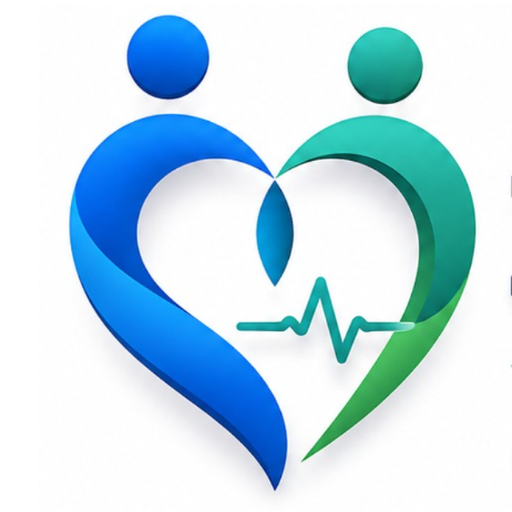
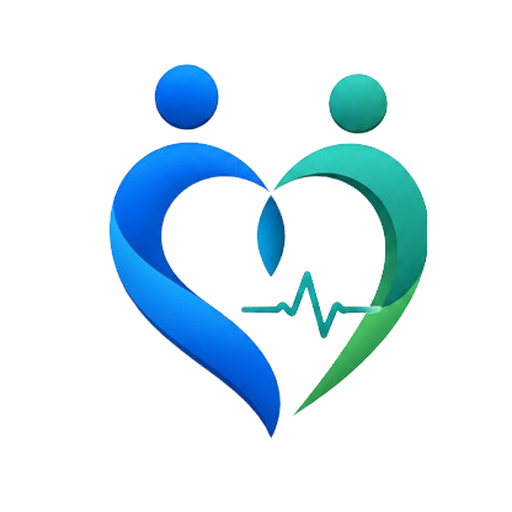
as

diff --git a/apps/web/src/features/patient/components/patient-dashboard-messages-section.tsx b/apps/web/src/features/patient/components/patient-dashboard-messages-section.tsx
@@ -127,25 +127,27 @@ export function PatientDashboardMessagesSection() {
     <Card
       className={cn(
         surfaceCard,
-        "flex h-full flex-col max-md:overflow-visible max-md:shadow-sm md:overflow-hidden md:shadow-premium border-slate-200 p-0",
+        "flex h-full w-full min-w-0 max-w-full flex-col overflow-x-hidden border-slate-200 p-0 shadow-sm md:overflow-hidden md:shadow-premium",
       )}
     >
-      <CardHeader className="shrink-0 space-y-3 border-b border-slate-200/80 bg-[#f0f2f5] px-4 py-4 sm:px-6">
-        <div className="flex flex-wrap items-center justify-between gap-3">
-          <div className="flex min-w-0 items-center gap-3">
-            <div className="flex size-10 shrink-0 items-center justify-center rounded-xl bg-brand-muted text-brand">
-              <MessageSquare className="size-5" aria-hidden />
+      <CardHeader className="shrink-0 space-y-3 border-b border-slate-200/80 bg-[#f0f2f5] px-3 py-3 sm:px-6 sm:py-4">
+        <div className="flex min-w-0 items-start justify-between gap-2 sm:gap-3">
+          <div className="flex min-w-0 flex-1 items-center gap-2.5 sm:gap-3">
+            <div className="flex size-9 shrink-0 items-center justify-center rounded-xl bg-brand-muted text-brand sm:size-10">
+              <MessageSquare className="size-4 sm:size-5" aria-hidden />
             </div>
             <div className="min-w-0">
-              <CardTitle className="text-base">{t.dashboard.nav.messages}</CardTitle>
-              <p className="mt-0.5 line-clamp-1 text-sm text-slate-500">{m.description}</p>
+              <CardTitle className="truncate text-base">{t.dashboard.nav.messages}</CardTitle>
+              <p className="mt-0.5 line-clamp-2 text-xs text-slate-500 sm:line-clamp-1 sm:text-sm">
+                {m.description}
+              </p>
             </div>
           </div>
-          <Button asChild variant="outline" size="sm" className="shrink-0">
+          <Button asChild variant="outline" size="sm" className="h-8 shrink-0 px-2.5 text-xs sm:h-9 sm:px-3 sm:text-sm">
             <Link href={siteConfig.links.messages}>{m.viewAll}</Link>
           </Button>
         </div>
-        <label className="relative block">
+        <label className="relative block min-w-0">
           <Search
             className="pointer-events-none absolute left-3 top-1/2 size-4 -translate-y-1/2 text-slate-400"
             aria-hidden
@@ -155,74 +157,74 @@ export function PatientDashboardMessagesSection() {
             onChange={(e) => setSearch(e.target.value)}
             placeholder={c.searchPlaceholder}
             className={cn(
-              "w-full rounded-xl border border-slate-200 bg-white py-2.5 pl-10 pr-3 text-sm",
+              "w-full min-w-0 rounded-xl border border-slate-200 bg-white py-2 pl-9 pr-3 text-sm",
               "outline-none focus:border-brand-light focus:ring-2 focus:ring-brand-muted",
             )}
           />
         </label>
       </CardHeader>
 
-      <CardContent className="min-h-0 flex-1 overflow-y-auto p-0">
+      <CardContent className="min-h-0 min-w-0 flex-1 overflow-x-hidden overflow-y-auto p-0">
         {loading ? (
           <LoadingScreen message={m.loading} size="md" />
         ) : contacts.length === 0 ? (
-          <div className="px-6 py-10 text-center">
+          <div className="px-4 py-10 text-center sm:px-6">
             <p className="font-medium text-slate-700">{c.emptyTitle}</p>
             <p className="mt-1 text-sm text-slate-500">{c.emptyDescription}</p>
           </div>
         ) : (
-          <ul>
+          <ul className="min-w-0">
             {contacts.map((contact) => {
               const hasUnread = contact.unreadCount > 0;
               return (
-              <li key={contact.id}>
+              <li key={contact.id} className="min-w-0">
                 <button
                   type="button"
                   onClick={() => handleSelect(contact)}
-                  className="flex w-full items-center gap-3 border-b border-slate-100 px-4 py-3 text-left transition-colors hover:bg-slate-50 sm:px-6"
+                  className="flex w-full min-w-0 max-w-full items-center gap-2.5 overflow-hidden border-b border-slate-100 px-3 py-2.5 text-left transition-colors hover:bg-slate-50 sm:gap-3 sm:px-6 sm:py-3"
                 >
                   <ChatAvatar
                     name={contact.name}
                     avatarUrl={contact.avatarUrl}
                     isDoctor
+                    size="sm"
+                    className="sm:h-12 sm:w-12"
                   />
-                  <div className="min-w-0 flex-1">
-                    <div className="flex items-center justify-between gap-2">
+                  <div className="min-w-0 flex-1 overflow-hidden">
+                    <div className="grid grid-cols-[minmax(0,1fr)_auto] items-center gap-x-2">
                       <p
                         className={cn(
-                          "truncate text-slate-900",
+                          "truncate text-sm text-slate-900 sm:text-base",
                           hasUnread ? "font-bold" : "font-semibold",
                         )}
                       >
                         {contact.name}
                       </p>
-                      <div className="flex shrink-0 items-center gap-1.5">
-                        {contact.lastMessageAt && (
-                          <span
-                            className={cn(
-                              "text-xs",
-                              hasUnread ? "font-semibold text-brand" : "text-slate-500",
-                            )}
-                          >
-                            {formatPreviewTime(contact.lastMessageAt)}
-                          </span>
-                        )}
-                        {hasUnread && (
-                          <span className="flex h-5 min-w-5 items-center justify-center rounded-full bg-brand px-1.5 text-[11px] font-bold leading-none text-white">
-                            {contact.unreadCount > 99 ? "99+" : contact.unreadCount}
-                          </span>
-                        )}
-                      </div>
+                      {contact.lastMessageAt ? (
+                        <span
+                          className={cn(
+                            "shrink-0 text-[11px] whitespace-nowrap sm:text-xs",
+                            hasUnread ? "font-semibold text-brand" : "text-slate-500",
+                          )}
+                        >
+                          {formatPreviewTime(contact.lastMessageAt)}
+                        </span>
+                      ) : null}
                     </div>
-                    <div className="mt-0.5 flex items-center justify-between gap-2">
+                    <div className="mt-0.5 flex min-w-0 items-center gap-2">
                       <p
                         className={cn(
-                          "truncate text-sm",
+                          "min-w-0 flex-1 truncate text-xs sm:text-sm",
                           hasUnread ? "font-medium text-slate-800" : "text-slate-500",
                         )}
                       >
                         {contact.lastMessagePreview || contact.subtitle || m.tapToChat}
                       </p>
+                      {hasUnread ? (
+                        <span className="flex h-5 min-w-5 shrink-0 items-center justify-center rounded-full bg-brand px-1.5 text-[10px] font-bold leading-none text-white sm:text-[11px]">
+                          {contact.unreadCount > 99 ? "99+" : contact.unreadCount}
+                        </span>
+                      ) : null}
                     </div>
                   </div>
                 </button>

diff --git a/apps/web/src/app/(patient)/dashboard/page.tsx b/apps/web/src/app/(patient)/dashboard/page.tsx
@@ -65,7 +65,7 @@ export default async function PatientDashboardPage() {
         description={formatMessage(t.dashboard.welcomeMessage, { name: displayName })}
       />
 
-      <section className="mt-8 space-y-8">
+      <section className="mt-8 min-w-0 space-y-8">
         <div>
           <h2 className="font-display text-lg font-semibold text-slate-900">
             {t.dashboard.activitiesTitle}
@@ -73,12 +73,15 @@ export default async function PatientDashboardPage() {
           <p className="mt-1 text-sm text-slate-500">{t.dashboard.activitiesDescription}</p>
         </div>
 
-        <div className="grid gap-4 lg:grid-cols-2 lg:items-stretch">
-          <PatientDashboardMessagesSection />
+        <div className="grid min-w-0 gap-4 lg:grid-cols-2 lg:items-stretch">
+          <div className="min-w-0">
+            <PatientDashboardMessagesSection />
+          </div>
+          <div className="min-w-0">
           {onlineBooking ? (
             <PatientOnlineBookingSection initialBooking={onlineBooking} />
           ) : (
-            <Card className={cn(surfaceCardInteractive, "flex h-full flex-col")}>
+            <Card className={cn(surfaceCardInteractive, "flex h-full min-w-0 flex-col")}>
               <CardHeader>
                 <CardTitle className="text-base">{t.dashboard.upcomingAppointments}</CardTitle>
               </CardHeader>
@@ -87,6 +90,7 @@ export default async function PatientDashboardPage() {
               </CardContent>
             </Card>
           )}
+          </div>
         </div>
 
         {urgentBooking ? (

diff --git a/apps/web/src/components/layout/site-logo.tsx b/apps/web/src/components/layout/site-logo.tsx
@@ -10,10 +10,10 @@ const LOGO_WIDTH = 320;
 const LOGO_HEIGHT = 120;
 
 const sizes = {
-  sm: "h-11 w-auto min-w-[7.5rem]",
-  md: "h-12 w-auto min-w-[8rem]",
-  lg: "h-14 w-auto min-w-[9rem] sm:h-16 sm:min-w-[10rem]",
-  xl: "h-20 w-auto min-w-[11rem] sm:h-24 sm:min-w-[13rem]",
+  sm: "h-10 w-auto max-w-[8rem] object-contain object-left",
+  md: "h-11 w-auto max-w-[8.5rem] object-contain object-left sm:h-12 sm:max-w-[9rem]",
+  lg: "h-11 w-auto max-w-[9rem] object-contain object-left sm:h-14 sm:max-w-[10rem] md:h-16 md:max-w-[11rem]",
+  xl: "h-16 w-auto max-w-[11rem] object-contain object-left sm:h-20 sm:max-w-[13rem] md:h-24 md:max-w-[15rem]",
 } as const;
 
 type SiteLogoProps = {
@@ -35,15 +35,17 @@ export function SiteLogo({
 }: SiteLogoProps) {
   const content = (
     <>
-      <Image
-        src={siteConfig.logo}
-        alt={siteConfig.name}
-        width={LOGO_WIDTH}
-        height={LOGO_HEIGHT}
-        className={cn("shrink-0 object-contain", sizes[size])}
-        priority={priority ?? size !== "sm"}
-        unoptimized
-      />
+      <span className="inline-flex shrink-0 items-center py-0.5">
+        <Image
+          src={siteConfig.logo}
+          alt={siteConfig.name}
+          width={LOGO_WIDTH}
+          height={LOGO_HEIGHT}
+          className={cn(sizes[size])}
+          priority={priority ?? size !== "sm"}
+          unoptimized
+        />
+      </span>
       {showName ? (
         <span
           className={cn(

diff --git a/apps/web/src/components/pwa/app-download-banner.tsx b/apps/web/src/components/pwa/app-download-banner.tsx
@@ -54,7 +54,7 @@ export function AppDownloadBanner() {
               alt=""
               width={80}
               height={80}
-              className="relative h-16 w-16 rounded-2xl bg-white shadow-lg ring-2 ring-white/40 sm:h-20 sm:w-20"
+              className="relative h-16 w-16 rounded-2xl bg-white object-contain p-1.5 shadow-lg ring-2 ring-white/40 sm:h-20 sm:w-20 sm:p-2"
             />
           </div>
 
@@ -80,13 +80,13 @@ export function AppDownloadBanner() {
             href={siteConfig.links.getAppAndroid}
             className="group inline-flex min-h-14 flex-1 items-center justify-center gap-3 rounded-2xl bg-white px-5 py-3.5 text-left shadow-lg transition hover:bg-white/95 hover:shadow-xl sm:min-w-[220px] lg:min-w-[240px]"
           >
-            <span className="flex h-11 w-11 shrink-0 items-center justify-center rounded-xl bg-[#3DDC84]/15">
+            <span className="relative h-11 w-11 shrink-0 overflow-hidden rounded-xl">
               <Image
-                src="/icons/android.svg"
+                src="/icons/android.png"
                 alt=""
-                width={28}
-                height={28}
-                className="h-7 w-7"
+                width={44}
+                height={44}
+                className="h-full w-full object-cover"
               />
             </span>
             <span className="min-w-0 flex-1">

diff --git a/apps/web/src/features/pwa/components/get-app-page.tsx b/apps/web/src/features/pwa/components/get-app-page.tsx
@@ -137,13 +137,13 @@ export function GetAppPage() {
     <div className="bg-muted/40">
       <div className="mx-auto w-full max-w-3xl px-4 py-12 sm:px-6 sm:py-16">
         <div className="text-center">
-          <div className="mx-auto flex h-20 w-20 items-center justify-center rounded-3xl bg-white shadow-sm ring-1 ring-border">
+          <div className="mx-auto flex h-20 w-20 items-center justify-center rounded-3xl bg-white p-2 shadow-sm ring-1 ring-border">
             <Image
               src={siteConfig.icon}
               alt={siteConfig.name}
               width={64}
               height={64}
-              className="h-16 w-16 rounded-2xl"
+              className="h-full w-full object-contain"
               priority
             />
           </div>

diff --git a/apps/web/src/components/pwa/install-prompt.tsx b/apps/web/src/components/pwa/install-prompt.tsx
@@ -147,13 +147,13 @@ export function InstallPrompt() {
             </button>
 
             <div className="flex items-start gap-4">
-              <div className="relative h-16 w-16 shrink-0 overflow-hidden rounded-2xl shadow-sm ring-2 ring-white/80">
+              <div className="flex h-16 w-16 shrink-0 items-center justify-center rounded-2xl bg-white p-1.5 shadow-sm ring-2 ring-white/80">
                 <Image
                   src={siteConfig.icon}
                   alt=""
                   width={64}
                   height={64}
-                  className="h-full w-full object-cover"
+                  className="h-full w-full object-contain"
                   priority
                 />
               </div>

diff --git a/apps/web/src/components/layout/unified-header.tsx b/apps/web/src/components/layout/unified-header.tsx
@@ -108,8 +108,13 @@ export function UnifiedHeader({
         <div className="flex min-w-0 items-center gap-2 sm:gap-3">
           {leadingSlot}
           <SiteLogo
+            size="md"
+            className="group min-w-0 shrink-0 font-semibold text-foreground sm:hidden"
+            priority
+          />
+          <SiteLogo
             size="lg"
-            className="group -my-1 min-w-0 shrink font-semibold text-foreground transition-transform group-hover:scale-[1.02] max-sm:[&_img]:h-12 max-sm:[&_img]:min-w-[7.5rem]"
+            className="group hidden min-w-0 shrink-0 font-semibold text-foreground sm:inline-flex"
             priority
           />
         </div>

diff --git a/apps/web/src/features/consult/components/patient-online-booking-section.tsx b/apps/web/src/features/consult/components/patient-online-booking-section.tsx
@@ -13,7 +13,7 @@ export function PatientOnlineBookingSection({ initialBooking }: Props) {
   if (!initialBooking) return null;
 
   return (
-    <Card className={cn(surfaceCardInteractive, "flex h-full flex-col")}>
+    <Card className={cn(surfaceCardInteractive, "flex h-full min-w-0 flex-col")}>
       <CardHeader>
         <CardTitle className="text-base">Online consultation</CardTitle>
       </CardHeader>

diff --git a/apps/web/scripts/generate-favicon.py b/apps/web/scripts/generate-favicon.py
@@ -13,18 +13,31 @@ alpha = data[:, :, 3]
 rgb = data[:, :, :3]
 mask = (alpha > 10) & np.any(rgb < 245, axis=2)
 icon_mask = mask.copy()
-icon_mask[:, 370:] = False
+icon_mask[:, 260:] = False
 rows, cols = np.where(icon_mask)
+if rows.size == 0:
+    raise SystemExit("Could not detect logo icon region")
 x0, y0, x1, y1 = cols.min(), rows.min(), cols.max(), rows.max()
 
-# Tight square crop around the icon with balanced padding
-pad = 12
-cx = (x0 + x1) // 2
-cy = (y0 + y1) // 2
-side = max(x1 - x0, y1 - y0) + pad * 2
-left = cx - side // 2
-top = cy - side // 2
-icon = img.crop((left, top, left + side, top + side))
+# Rectangular crop of the heart icon only, with extra top padding for the figure heads
+pad = 20
+left = max(0, x0 - pad)
+top = max(0, y0 - pad * 2)
+right = min(img.width, x1 + pad)
+bottom = min(img.height, y1 + pad)
+icon_rect = img.crop((left, top, right, bottom))
+
+# Pad to square if crop hit the image edge, then add outer safe-zone for mobile/PWA masks
+rect_w, rect_h = icon_rect.size
+inner_side = max(rect_w, rect_h)
+inner = Image.new("RGBA", (inner_side, inner_side), (255, 255, 255, 0))
+inner.paste(icon_rect, ((inner_side - rect_w) // 2, (inner_side - rect_h) // 2), icon_rect)
+
+safe_ratio = 0.14
+outer_side = int(inner_side * (1 + safe_ratio * 2))
+icon = Image.new("RGBA", (outer_side, outer_side), (255, 255, 255, 255))
+inset = (outer_side - inner_side) // 2
+icon.paste(inner, (inset, inset), inner)
 
 
 def flatten_white_rgba(src: Image.Image, bg=(255, 255, 255, 255)) -> Image.Image:
@@ -50,4 +63,4 @@ icon_rgb.resize((192, 192), Image.Resampling.LANCZOS).save(public_dir / "icon-19
 icon_rgb.resize((512, 512), Image.Resampling.LANCZOS).save(public_dir / "icon-512.png")
 
 print("Created favicon assets from logo icon")
-print("Icon crop:", left, top, left + side, top + side)
+print("Icon bounds:", left, top, right, bottom, "canvas", outer_side)
